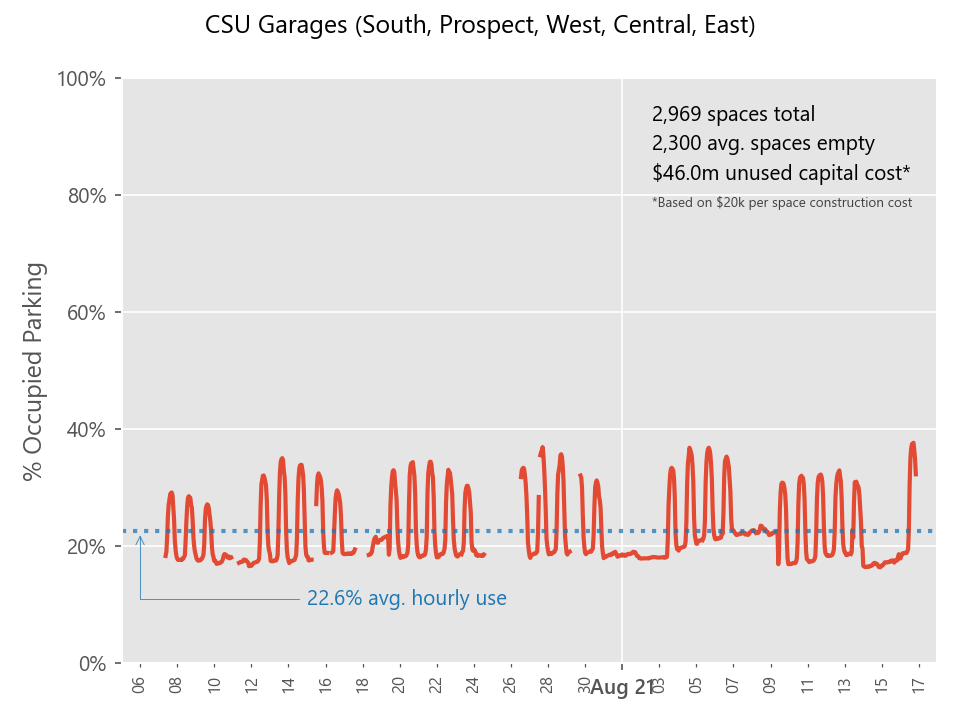
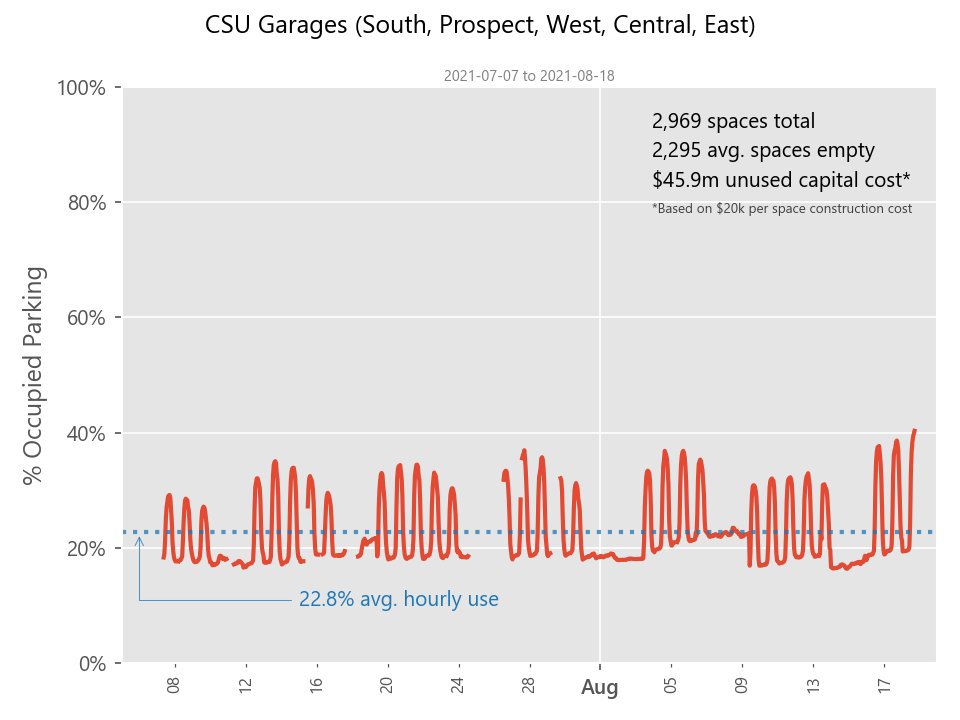
Scrape update 8-18, chart format

diff --git a/charts.py b/charts.py
@@ -33,11 +33,11 @@ ax.plot('percent_use', '-', ms=3.5, lw=2, data=hourlymins)
 # x axis major ticks as months
 fmt_months = md.MonthLocator(interval=1)
 ax.xaxis.set_major_locator(fmt_months)
-ax.xaxis.set_major_formatter(md.DateFormatter('%b %y'))  # label as month and 2 digit year
+ax.xaxis.set_major_formatter(md.DateFormatter('%b'))  # label as month and 2 digit year
 plt.setp(ax.xaxis.get_majorticklabels(), fontweight='semibold')
 
 # x
-fmt_days = md.DayLocator(interval=2, bymonthday=range(3, 31))
+fmt_days = md.DayLocator(interval=4, bymonthday=range(3, 31))
 ax.xaxis.set_minor_locator(fmt_days)
 ax.xaxis.set_minor_formatter(md.DateFormatter('%d'))
 plt.setp(ax.xaxis.get_minorticklabels(), rotation=90, size=8)
@@ -64,6 +64,8 @@ plt.annotate(f'{average_use:.1%} avg. hourly use', xy=(date_min + 1, average_use
              arrowprops={'arrowstyle': '->', 'connectionstyle': "angle,angleA=180,angleB=90", 'color': 'tab:blue',
                          'lw': '.5', 'alpha': 0.75})
 
+plt.text(.5, 1.01, f'{date_min+2} to {date_max-2}', size=7, c='gray', ha='center', transform= ax.transAxes)
+
 plt.suptitle(f'CSU Garages (South, Prospect, West, Central, East)')
 plt.tight_layout()
-plt.savefig('./exports/ex1.png', dpi=150)
+plt.savefig('./exports/ex1.png', dpi=150, )
